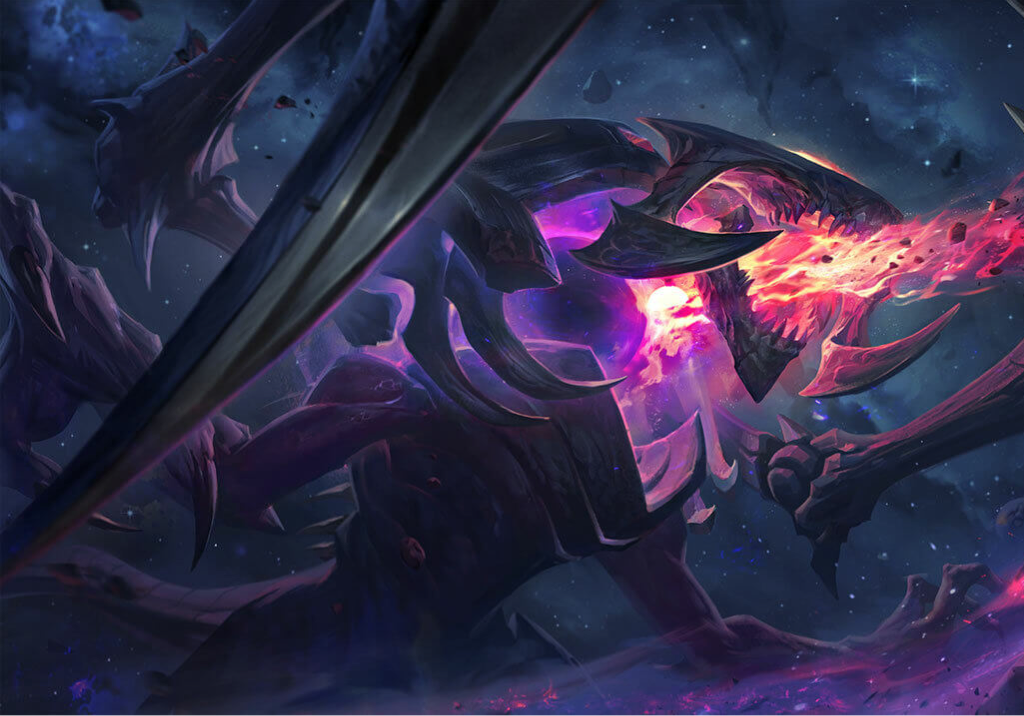
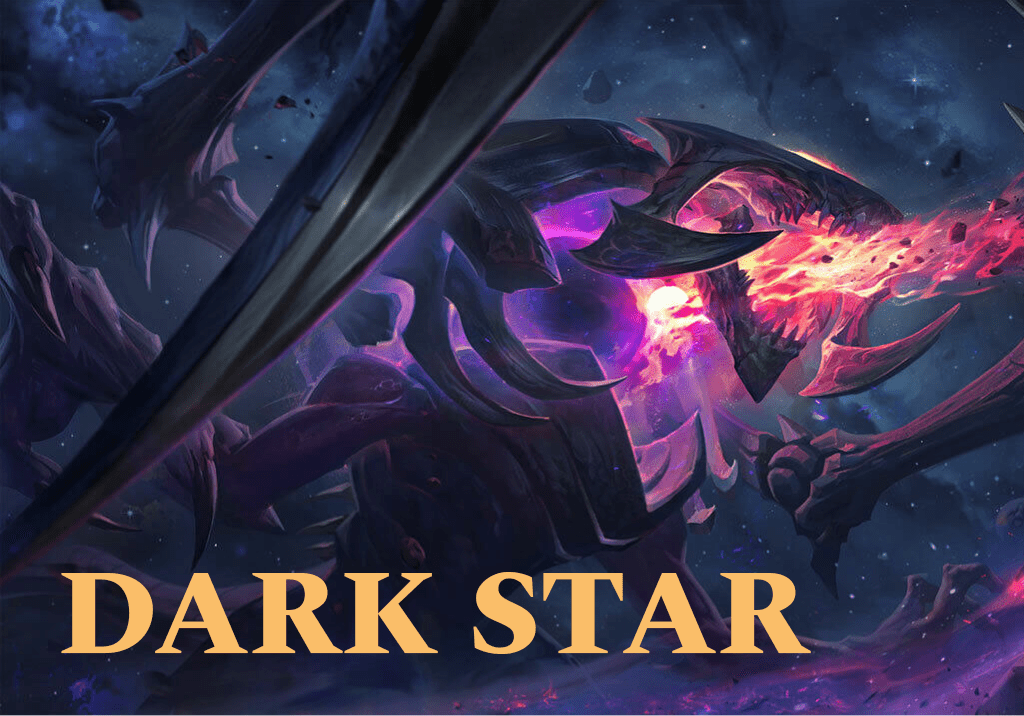
Replace hero 1, added color and fonts

diff --git a/dev/scss/layout/_footer.scss b/dev/scss/layout/_footer.scss
@@ -2,24 +2,26 @@
     Footer
 ============= */
 
-    footer{
-        display: grid;
-        grid-template-columns: 5% auto 5%;
-        grid-template-areas: ". footer .";
+footer{
+    display: grid;
+    grid-template-columns: 5% auto 5%;
+    grid-template-areas: ". footer .";
+    background-color: #171733;
 
-        #footer-content{
-            grid-area: footer;
-        }
-
-        p {
-            text-align: right;
-    
-        }
-
-        .center {
-            display: block;
-            margin-left: auto;
-            margin-right: auto;
-            width: 20%;
-          }
+    #footer-content{
+        grid-area: footer;
     }
+
+    p {
+        text-align: right;
+        color: white;
+
+    }
+
+    .center {
+        display: block;
+        margin-left: auto;
+        margin-right: auto;
+        width: 20%;
+      }
+}

diff --git a/deploy/css/styles.css b/deploy/css/styles.css
@@ -328,6 +328,21 @@ ul {
   ul li {
     list-style: none; }
 
+h3 {
+  font-family: 'Spectral SC';
+  font-size: 40px;
+  color: #171733; }
+
+h2 {
+  font-family: 'Spectral SC';
+  font-size: 50px;
+  color: #171733; }
+
+p {
+  font-family: 'Lato';
+  font-size: 22px;
+  color: #171733; }
+
 /* =============
     Typography
 ============= */
@@ -361,11 +376,13 @@ textarea {
 footer {
   display: grid;
   grid-template-columns: 5% auto 5%;
-  grid-template-areas: ". footer ."; }
+  grid-template-areas: ". footer .";
+  background-color: #171733; }
   footer #footer-content {
     grid-area: footer; }
   footer p {
-    text-align: right; }
+    text-align: right;
+    color: white; }
   footer .center {
     display: block;
     margin-left: auto;

diff --git a/deploy/index.html b/deploy/index.html
@@ -6,6 +6,8 @@
     <meta name="viewport" content="width=device-width, initial-scale=1.0">
     <meta http-equiv="X-UA-Compatible" content="ie=edge">
     <link rel="stylesheet" href="css/styles.css">
+    <link href='https://fonts.googleapis.com/css?family=Lato' rel='stylesheet'>
+    <link href='https://fonts.googleapis.com/css?family=Spectral SC' rel='stylesheet'>
     <title>Web 2 Homework Dark Star</title>
 </head>
 
@@ -13,7 +15,6 @@
 
     <section id="section-1">
         <img src="img/section-1/hero.png" alt="Dark Star Cho Gath Skin">
-        <h1>Dark Star</h1>
     </section>
     <section id="section-2">
             <div id="section-2-together">

diff --git a/dev/scss/base/_base.scss b/dev/scss/base/_base.scss
@@ -17,3 +17,20 @@ ul{
         list-style: none;
     }
 }
+
+h3{
+font-family: 'Spectral SC';font-size: 40px;
+color: #171733;
+}
+
+
+h2{
+font-family: 'Spectral SC';font-size: 50px;
+color: #171733;
+}
+
+
+p{
+font-family: 'Lato';font-size: 22px;
+color: #171733;
+}
